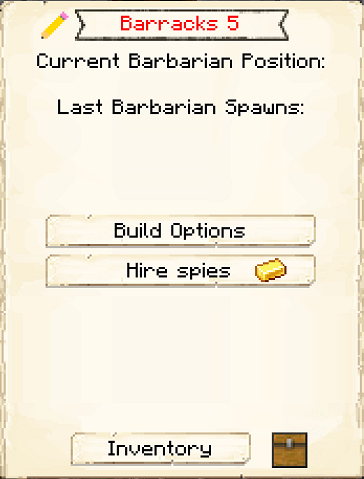
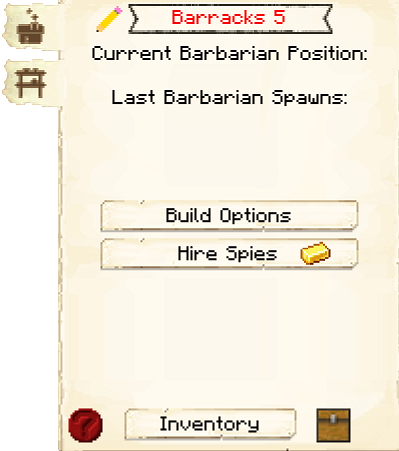
Barracks update

Changed region(s): [[0.0, 0.0, 1.0, 1.0], [0.8764, 0.0, 0.9066, 0.031]]

diff --git a/source/buildings/barracks.md b/source/buildings/barracks.md
@@ -40,7 +40,7 @@ The Barracks is the ultimate protection for your colony. The Barracks will hold 
 
 ## Barracks GUI
 
-When accessing the Barracks's hut block by right-clicking on it, you will see a GUI with different options:
+When accessing the Barracks's hut block by right-clicking on it, you will see a GUI with different options.  You start on the main tab:
 
 <br>
 <div class="row">
@@ -49,6 +49,7 @@ When accessing the Barracks's hut block by right-clicking on it, you will see a 
   </div>
   <div class="col-sm-12 col-md"><br><br>
       <ul>
+      <li><strong>Pencil:</strong> Allows you to rename the building.  The level of the building will always be listed after the name.</li>
       <li><strong>Barracks Level:</strong> This tells you the type of hut and the build level of the building you have selected.</li>
       <li><strong>Current Barbarian Position and Last Barbarian Spawn:</strong> A tracker system for Barbarians. <strong>Note: </strong>you can only see the current barbarian position if you have <b>hired spies</b> (see below) during the current raid.</li>
       <li><strong>Build Options:</strong> Lets you create a build, upgrade, reposition, or repair build order for the Barracks. To learn more about the building system, please visit the <a href="../../source/workers/builder">Builder</a> page.</li>
@@ -57,7 +58,22 @@ When accessing the Barracks's hut block by right-clicking on it, you will see a 
   <img src="../../assets/images/gui/hiringspies.png" class="img-fluid mx-auto" alt="Hiring Spies">
       <br>
       <li><strong>Inventory:</strong> Here you can access the Barracks' storage, where the Guards staying in the Barracks take and deposit materials. They will also use any <a href="../../source/items/rack">racks</a> or chests in the Barracks, so be sure to check those as well!</li>
+      <li><strong>?:</strong> Some huts have an in-game guide. Press the ? button to access it.</li>
+      <li><strong>A chest icon:</strong> Click this button to see all the items in the hut's storage (including the hut block's inventory and any racks that came with the hut). Clicking the ? button next to an item's count will highlight the storage container it's in.</li>
     </ul>
   </div>
 </div>  
-  <br>
+
+<br>
+<div class="row">
+  <div class="col-sm-12 col-md">
+    <img src="../../assets/images/gui/barracksgui2.png" class="img-fluid mx-auto" alt="Barracks GUI 2">
+  </div>
+  <div class="col-sm-12 col-md">
+    <br>
+    <p>The second tab of the GUI is <strong>Minimum Stock</strong>.    It has one button:</p>
+    <ul>
+        <li><strong> Minimum Stock: </strong> Use this button to tell the Barracks to keep a minimum stock on hand. Set items will be displayed above the button.</li>
+    </ul>
+  </div>
+</div>  
